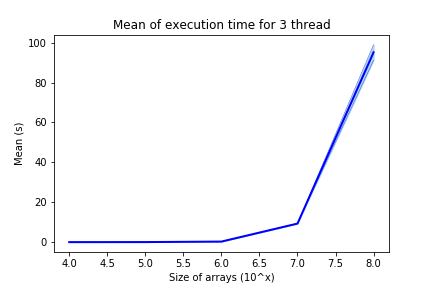
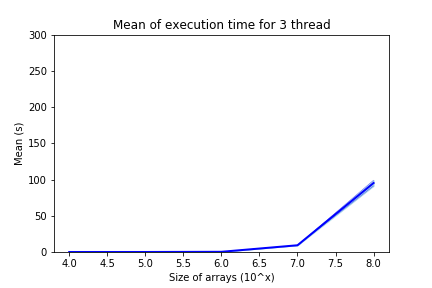
change scale of means graphs

diff --git a/taller_1/analize.py b/taller_1/analize.py
@@ -125,6 +125,7 @@ def graphThreadMean(means, stdDev, n):
     ax1.plot(x, meanThreadP, color='b', lw=0.3)
     ax1.plot(x, meanThreadL, color='b', lw=0.3)
     ax1.fill_between(x, meanThreadP, meanThreadL, color = 'lightblue')
+    plt.ylim([0,300])
     fig.savefig('Mean of execution time for {0} thread'.format(n + 1))
     plt.show()
     
